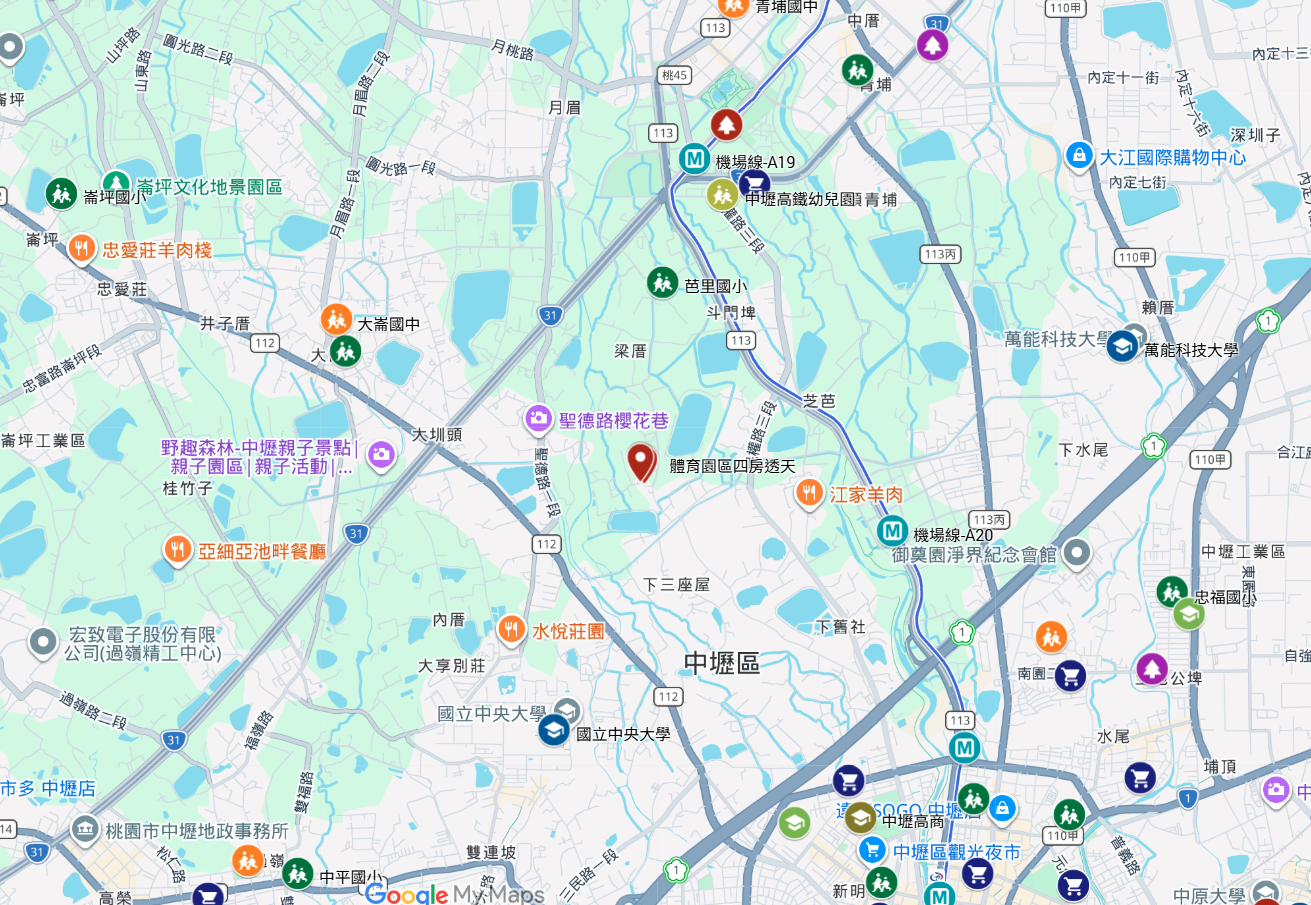
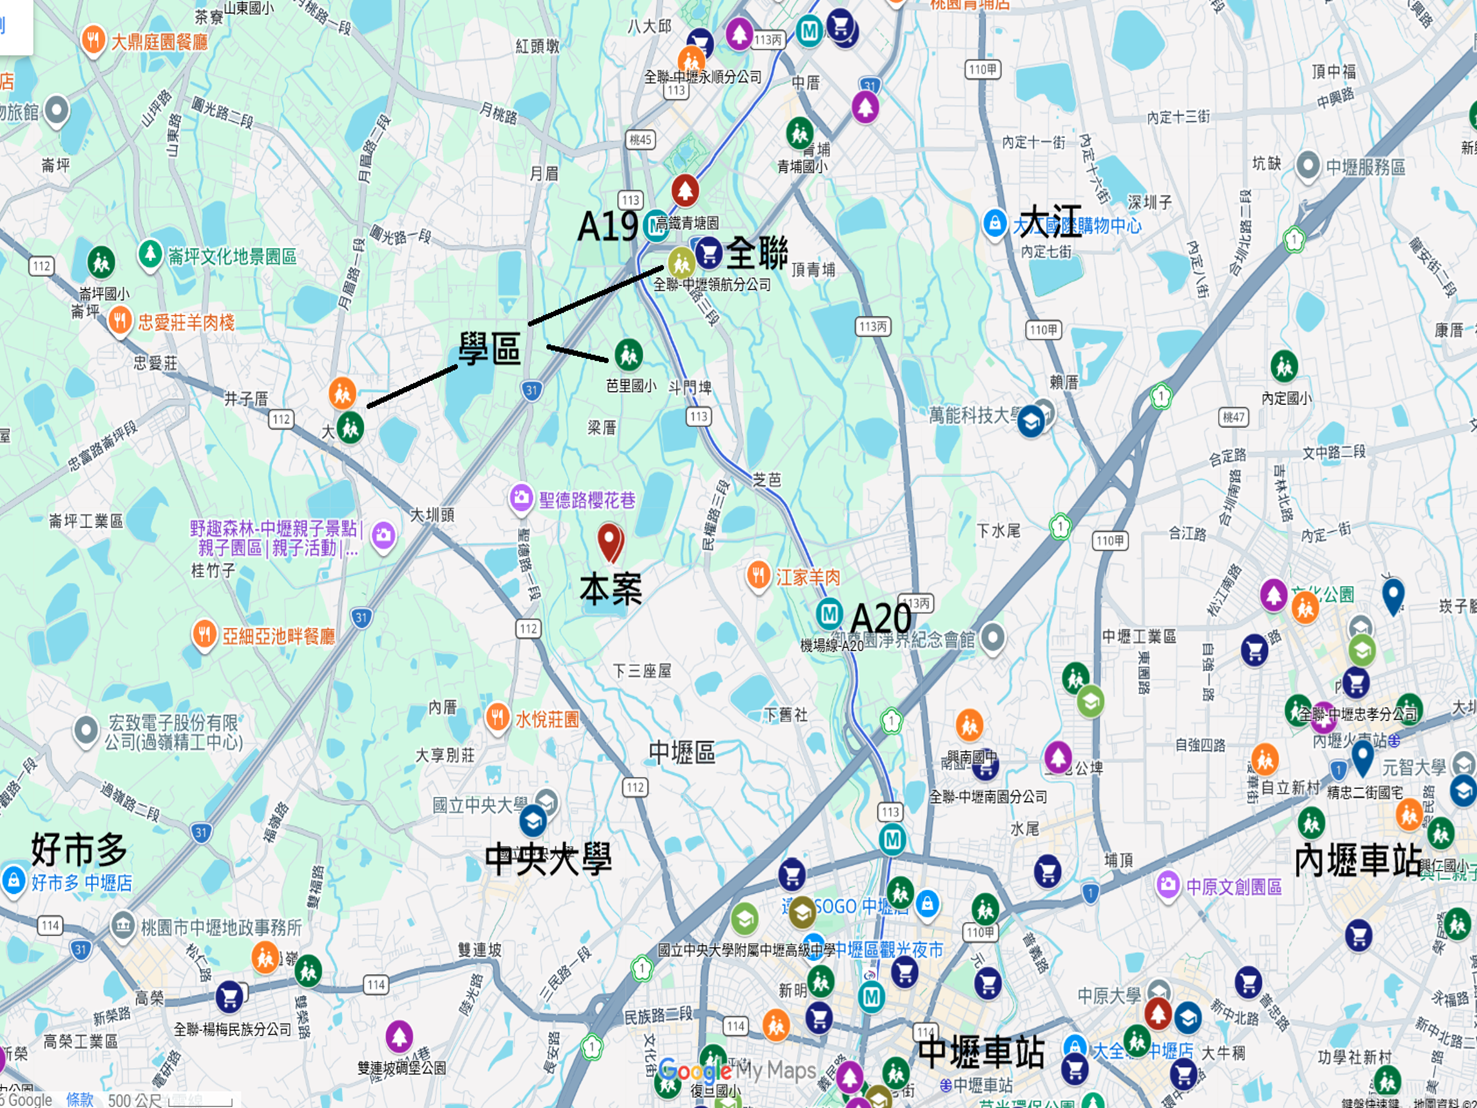
A19六房電梯透天

diff --git a/260/index.html b/260/index.html
@@ -5,7 +5,7 @@
 <meta http-equiv="X-UA-Compatible" content="IE=edge">
 <meta name="viewport" content="width=device-width, initial-scale=1.0">
 <meta name="generator" content="Asciidoctor 2.0.23">
-<title>A19六房電梯透天新建案</title>
+<title>A19六房電梯透天</title>
 <link rel="stylesheet" href="https://fonts.googleapis.com/css?family=Open+Sans:300,300italic,400,400italic,600,600italic%7CNoto+Serif:400,400italic,700,700italic%7CDroid+Sans+Mono:400,700">
 <style>
 /*! Asciidoctor default stylesheet | MIT License | https://asciidoctor.org */
@@ -549,7 +549,7 @@ body.book #toc,body.book #preamble,body.book h1.sect0,body.book .sect1>h2{page-b
 </head>
 <body class="article">
 <div id="header">
-<h1>A19六房電梯透天新建案</h1>
+<h1>A19六房電梯透天</h1>
 </div>
 <div id="content">
 <div class="sect1">
@@ -605,15 +605,8 @@ body.book #toc,body.book #preamble,body.book h1.sect0,body.book .sect1>h2{page-b
 </tr>
 <tr>
 <td class="tableblock halign-left valign-top"><p class="tableblock">車位</p></td>
-<td class="tableblock halign-left valign-top"><div class="content"><div class="ulist">
-<ul>
-<li>
-<p>自有空間: 門前可停1~2台，後門可停2-3台</p>
-</li>
-<li>
-<p>依需購入 B1車位：一般160萬，子母(小)190萬，子母(大)200萬</p>
-</li>
-</ul>
+<td class="tableblock halign-left valign-top"><div class="content"><div class="paragraph">
+<p>門前可停1~2台，後門可停2-3台</p>
 </div></div></td>
 </tr>
 </tbody>
@@ -1228,7 +1221,7 @@ body.book #toc,body.book #preamble,body.book h1.sect0,body.book .sect1>h2{page-b
 </div>
 <div id="footer">
 <div id="footer-text">
-Last updated 2026-05-12 09:47:45 +0800
+Last updated 2026-05-15 18:57:36 +0800
 </div>
 </div>
 <script>
